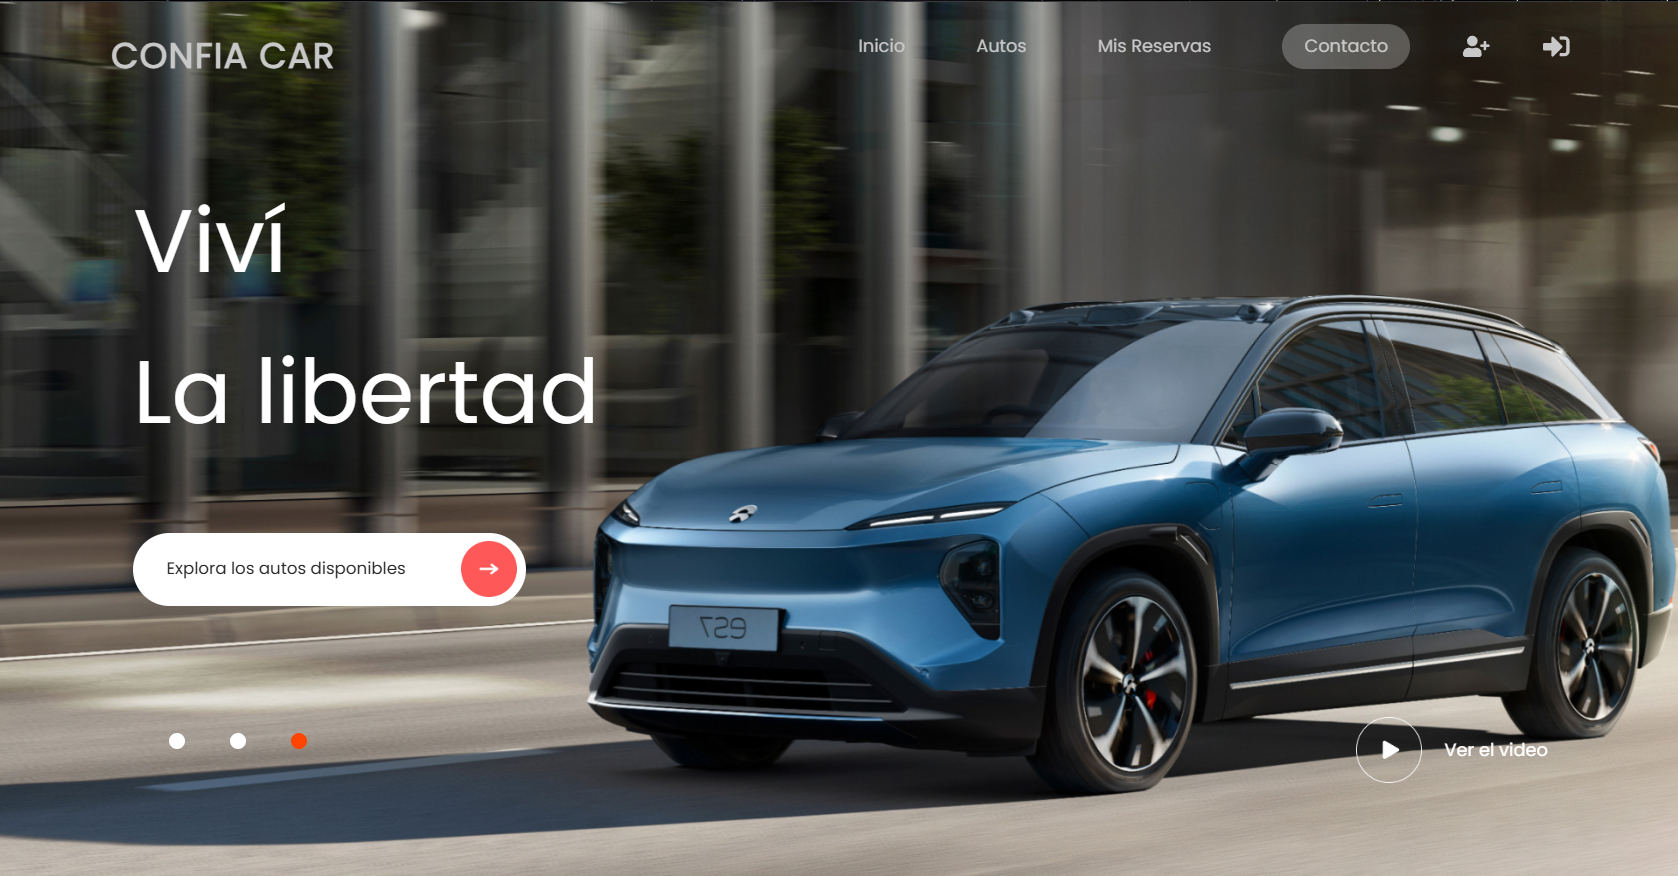
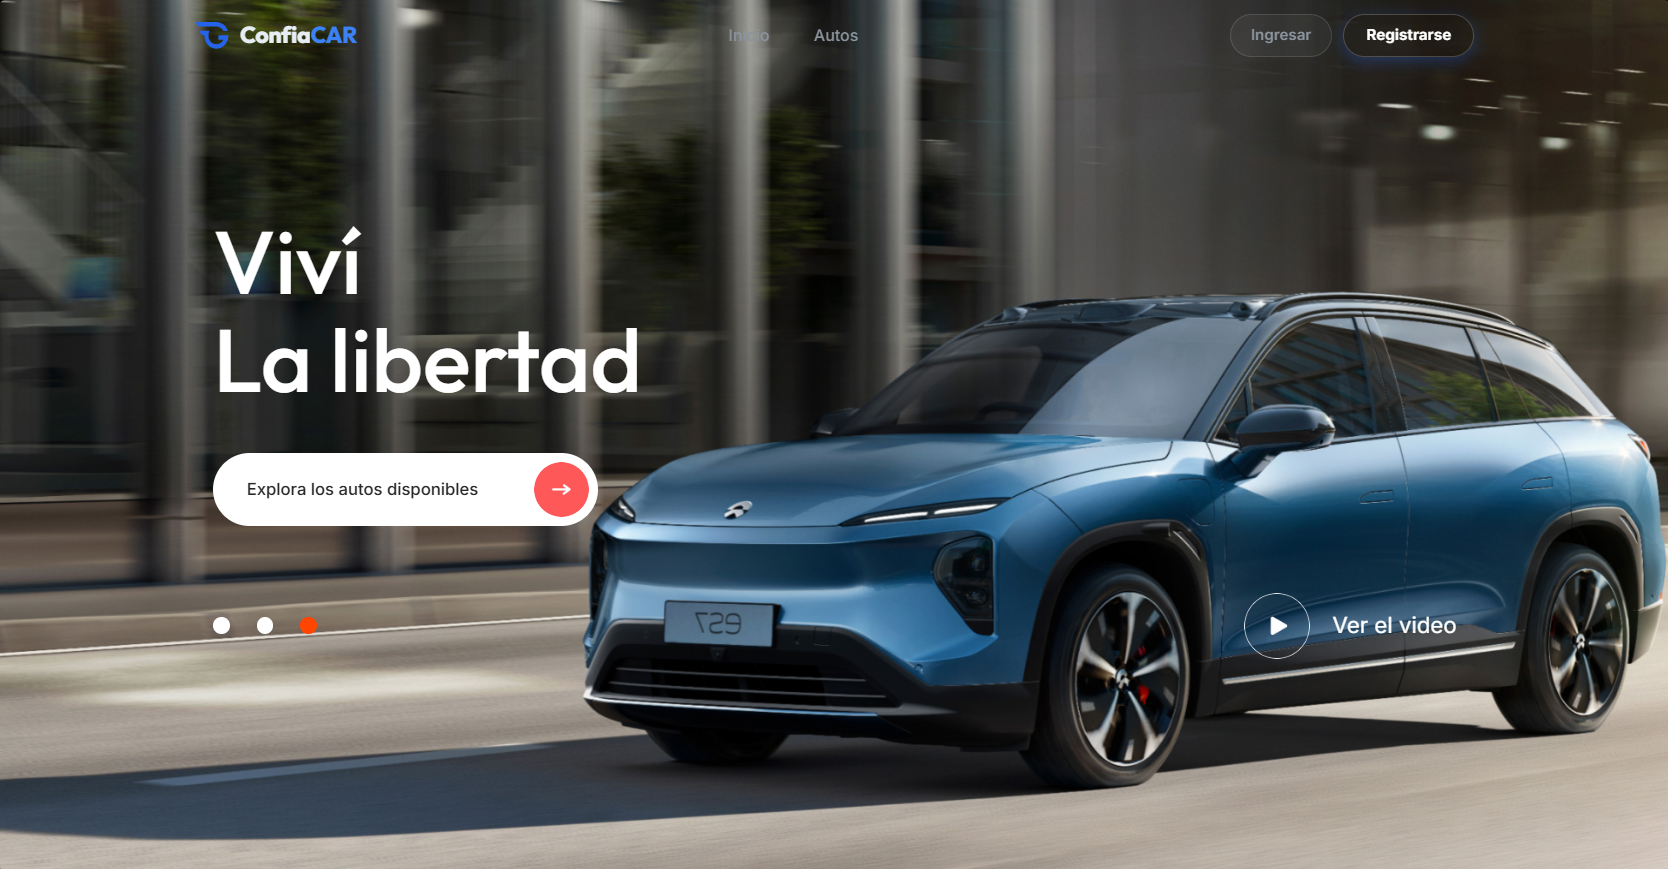
Proyectos: Actualización de Confia-CAR a Full Stack y ajuste de descripciones

diff --git a/src/components/Projects.jsx b/src/components/Projects.jsx
@@ -1,8 +1,8 @@
-// src/components/Projects.jsx
 import { useState } from 'react';
 import { Github, Radio } from 'lucide-react';
 // eslint-disable-next-line no-unused-vars
 import { motion, AnimatePresence } from 'framer-motion';
+import { useLanguage } from '../hooks/useLanguage';
 // Icons
 import { TiCloudStorageOutline } from "react-icons/ti";
 import { FaHtml5, FaCss3Alt, FaJs, FaReact, FaBootstrap, FaKey, FaEnvelope, FaFileUpload, FaRegBell } from 'react-icons/fa';
@@ -19,7 +19,6 @@ const techIcons = {
     LocalStorage: <TiCloudStorageOutline />,
     Responsive: <LuTabletSmartphone />,
     Tailwind: <SiTailwindcss />,
-    Vite: <SiVite />,
     Framer: <SiFramer />,
     Nodejs: <SiNodedotjs />,
     Express: <SiExpress />,
@@ -35,8 +34,26 @@ const techIcons = {
 
 const projectList = [
     {
+        title: 'Nova-SetUp',
+        descriptionKey: 'projects.novaSetup.desc',
+        techs: ['React', 'Tailwind', 'Nodejs', 'Express', 'MongoDB', 'JWT'],
+        code: 'https://github.com/LautaroLeall/Nova-Setup-Front',
+        demo: 'https://nova-setup.vercel.app/',
+        image: '/projects/nova-setup.png',
+        category: 'Full Stack'
+    },
+    {
+        title: 'CONFIA-CAR',
+        descriptionKey: 'projects.confiaCar.desc',
+        techs: ['React', 'Tailwind', 'Nodejs', 'Express', 'MongoDB', 'Socket.IO', 'JWT'],
+        code: 'https://github.com/LautaroLeall/Confia-CAR-Front',
+        demo: 'https://confia-car-renta.vercel.app/',
+        image: '/projects/confia-car.png',
+        category: 'Full Stack'
+    },
+    {
         title: 'Fleeswap',
-        description: 'Full Stack marketplace with real-time chat and barter system.',
+        descriptionKey: 'projects.fleeswap.desc',
         techs: ['React', 'Tailwind', 'Vite', 'Nodejs', 'Express', 'MongoDB', 'Socket.IO'],
         code: 'https://github.com/BenjaZelaya/Fleeswap-Frontend',
         demo: 'https://fleeswap.vercel.app/',
@@ -44,18 +61,9 @@ const projectList = [
         category: 'Full Stack'
     },
     {
-        title: 'Nova-SetUp',
-        description: 'Full Stack E-commerce with PC simulator & Admin panel.',
-        techs: ['React', 'Tailwind', 'Vite', 'Nodejs', 'Express', 'MongoDB', 'JWT'],
-        code: 'https://github.com/LautaroLeall/Nova-Setup-Front',
-        demo: 'https://nova-setup.vercel.app/',
-        image: '/projects/nova-setup.png',
-        category: 'Full Stack'
-    },
-    {
         title: 'MyM Decoraciones',
-        description: 'Event decoration landing page with pricing and contact.',
-        techs: ['React', 'ReactRouter', 'Tailwind', 'Vite', 'Framer', 'Responsive'],
+        descriptionKey: 'projects.mym.desc',
+        techs: ['React', 'ReactRouter', 'Tailwind', 'Framer', 'Responsive'],
         code: 'https://github.com/LautaroLeall/MyM_Decoraciones',
         demo: 'https://mym-decoraciones.netlify.app/',
         image: '/projects/mym-decoraciones.png',
@@ -63,8 +71,8 @@ const projectList = [
     },
     {
         title: 'Levels GYM',
-        description: 'High-performance gym website with plans and contact.',
-        techs: ['React', 'Tailwind', 'Vite', 'Framer', 'Responsive'],
+        descriptionKey: 'projects.levels.desc',
+        techs: ['React', 'Tailwind', 'Framer', 'Responsive'],
         code: 'https://github.com/LautaroLeall/Levels-GYM',
         demo: 'https://levels-ar.netlify.app/',
         image: '/projects/levels-gym.png',
@@ -72,8 +80,8 @@ const projectList = [
     },
     {
         title: 'Cesar Aparicio Estilista',
-        description: 'Stylist landing page with WhatsApp booking.',
-        techs: ['React', 'ReactRouter', 'Tailwind', 'Vite', 'Framer', 'Responsive'],
+        descriptionKey: 'projects.cesar.desc',
+        techs: ['React', 'ReactRouter', 'Tailwind', 'Framer', 'Responsive'],
         code: 'https://github.com/LautaroLeall/Cesar_Aparicio_Estilista',
         demo: 'https://cesar-aparicio-estilista.netlify.app/',
         image: '/projects/cesar-estista.png',
@@ -81,8 +89,8 @@ const projectList = [
     },
     {
         title: 'BGA Habilitaciones',
-        description: 'Professional site for commercial permits consulting.',
-        techs: ['React', 'Tailwind', 'Vite', 'Framer', 'Responsive'],
+        descriptionKey: 'projects.bga.desc',
+        techs: ['React', 'Tailwind', 'Framer', 'Responsive'],
         code: 'https://github.com/LautaroLeall/BG-Habilitaciones',
         demo: 'https://bga-habilitaciones.netlify.app/',
         image: '/projects/bga-habilitaciones.png',
@@ -90,28 +98,26 @@ const projectList = [
     },
     {
         title: 'Krauft Marketing Inmobiliario',
-        description: 'Corporate website for real estate marketing.',
-        techs: ['React', 'JavaScript', 'Tailwind', 'Vite', 'Framer', 'Responsive'],
+        descriptionKey: 'projects.krauft.desc',
+        techs: ['React', 'ReactRouter', 'Tailwind', 'Framer', 'Responsive'],
         code: 'https://github.com/LautaroLeall/Krauft',
         demo: 'https://krauft-marketing-inmobiliaria.netlify.app/',
         image: '/projects/krauft.png',
         category: 'Landing Pages'
     },
-    {
-        title: 'CONFIA-CAR',
-        description: 'Car rental app for booking management.',
-        techs: ['React', 'JavaScript', 'CSS', 'Bootstrap', 'LocalStorage', 'Responsive'],
-        code: 'https://github.com/LautaroLeall/Confia-CAR',
-        demo: 'https://confia-car-renta.netlify.app/',
-        image: '/projects/confia-car.png',
-        category: 'Frontend Apps'
-    }
 ];
 
-const categories = ['All', 'Full Stack', 'Landing Pages', 'Frontend Apps'];
+const categories = ['All', 'Full Stack', 'Landing Pages'];
 
 const Projects = () => {
     const [filter, setFilter] = useState('All');
+    const { t } = useLanguage();
+
+    const categoryLabels = {
+        'All': t('projects.categories.all'),
+        'Full Stack': t('projects.categories.fullstack'),
+        'Landing Pages': t('projects.categories.landing')
+    };
 
     const filteredProjects = projectList.filter(proj =>
         filter === 'All' ? true : proj.category === filter
@@ -119,7 +125,7 @@ const Projects = () => {
 
     return (
         <div className="projects-container container py-5" id="projects" data-aos="fade-up">
-            <h2 className="section-title text-center mb-4">My Projects</h2>
+            <h2 className="section-title text-center mb-4">{t('projects.title')}</h2>
 
             {/* Filter Buttons */}
             <div className="d-flex flex-wrap justify-content-center gap-3 mb-5">
@@ -129,7 +135,7 @@ const Projects = () => {
                         onClick={() => setFilter(cat)}
                         className={`btn-filter ${filter === cat ? 'active' : ''}`}
                     >
-                        {cat}
+                        {categoryLabels[cat] || cat}
                     </button>
                 ))}
             </div>
@@ -149,7 +155,7 @@ const Projects = () => {
                             <img src={proj.image} alt={proj.title} className="project-image" />
                             <div className="overlay d-flex flex-column justify-content-center text-center p-2">
                                 <h5 className="project-title">{proj.title}</h5>
-                                <p className="project-description m-0">{proj.description}</p>
+                                <p className="project-description m-0">{t(proj.descriptionKey)}</p>
                                 <div className="project-techs d-flex flex-wrap justify-content-center align-items-center gap-3 my-3">
                                     {proj.techs.map((tech, idx) => (
                                         <span className="tech-icon" key={idx} data-tooltip={tech}>
